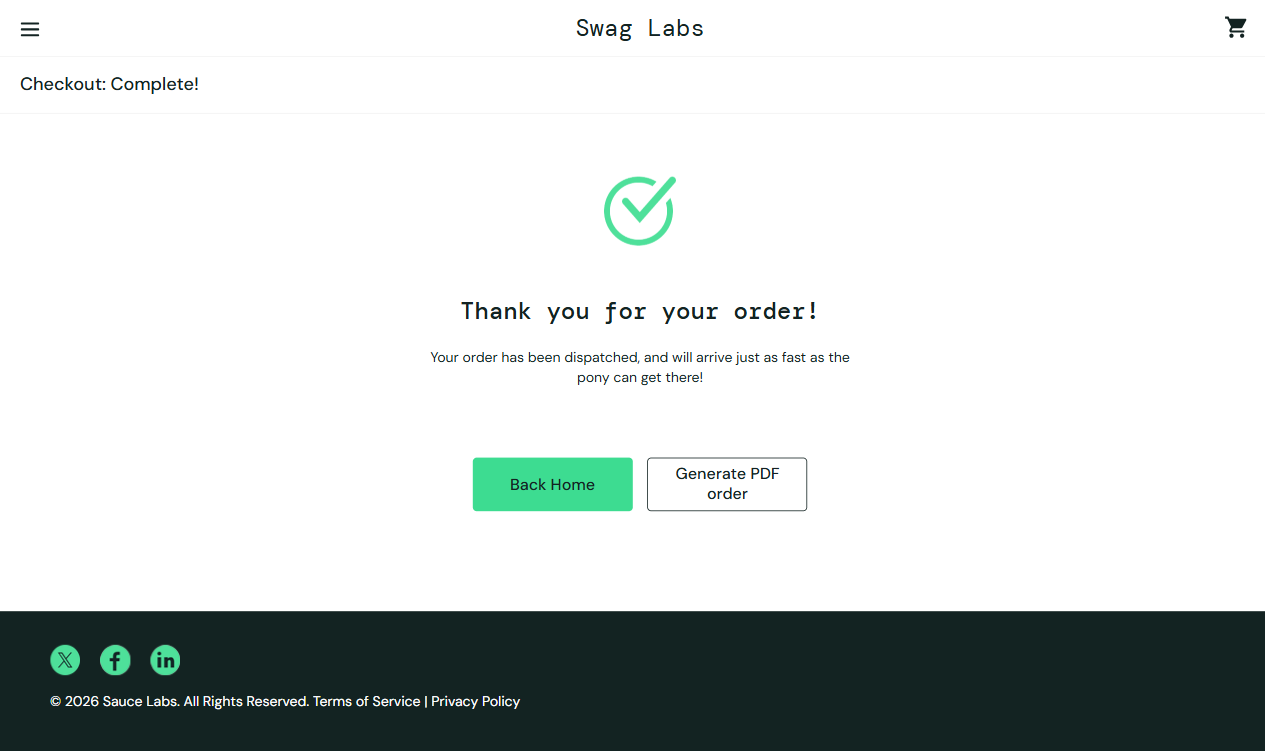
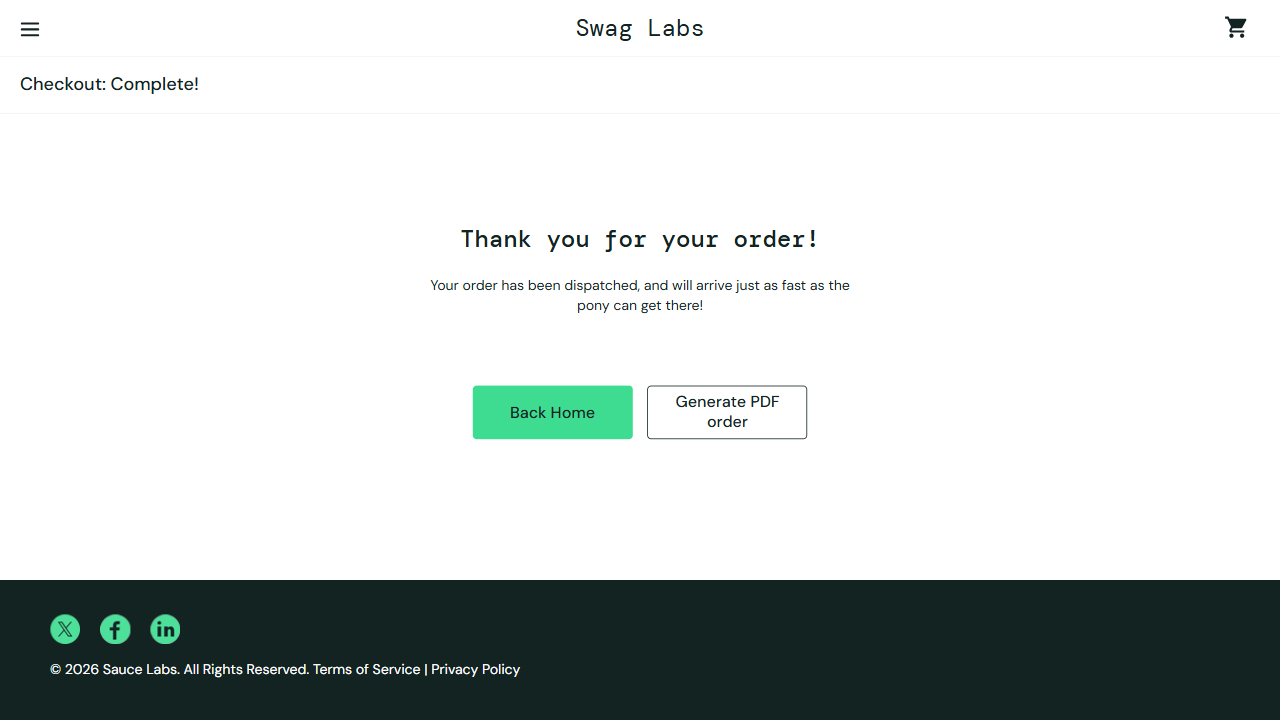
Update InventoryPage.ts and CheckOutYourInfoPage.ts

diff --git a/pages/InventoryPage.ts b/pages/InventoryPage.ts
@@ -25,8 +25,13 @@ export class InventoryPage extends BasePage {
     // Add a product by its one-based number and save its name and price for later assertions.
     async addProductToCart(productNumber: number): Promise<{ name: string; price: string }> {
 
-        if (productNumber < 1) {
-            throw new Error('Product number must be greater than 0');
+        const productCount = await this.productItems.count();
+
+        if (!Number.isInteger(productNumber) ||
+            productNumber < 1 ||
+            productNumber > productCount
+        ) {
+            throw new Error(`Product number must be between 1 and ${productCount}`);
         }
 
         const productItem = this.productItems.nth(productNumber - 1);

diff --git a/pages/CheckOutYourInfoPage.ts b/pages/CheckOutYourInfoPage.ts
@@ -29,15 +29,6 @@ export class CheckOutYourInfoPage extends BasePage {
         await this.firstNameInput.fill(userData.firstName);
         await this.lastNameInput.fill(userData.lastName);
         await this.postalCodeInput.fill(userData.postalCode);
-    }
-
-    async expectYourInformation(userData: CheckoutInformation): Promise<void> {
-        await expect(this.firstNameInput).toHaveValue(userData.firstName);
-        await expect(this.lastNameInput).toHaveValue(userData.lastName);
-        await expect(this.postalCodeInput).toHaveValue(userData.postalCode);
-    }
-
-    async continueToOverview(): Promise<void> {
         await this.continueButton.click();
     }
 }

diff --git a/tests/ui/shopping-cart.spec.ts b/tests/ui/shopping-cart.spec.ts
@@ -46,9 +46,6 @@ test('TEST 4 - Successfully completes a product purchase', async ({ page }) => {
 
     await And('user completes the checkout process', async () => {
         await checkoutInfoPage.fillYourInformation(userData);
-        await checkoutInfoPage.expectYourInformation(userData);
-
-        await checkoutInfoPage.continueToOverview();
         await checkoutOverviewPage.expectPageLoaded();
 
         await checkoutOverviewPage.expectProductOverview(selectedProduct.name, selectedProduct.price, expectedQuantity);
